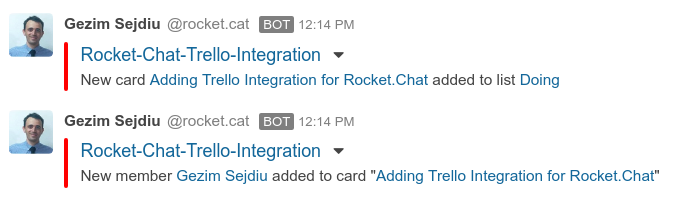
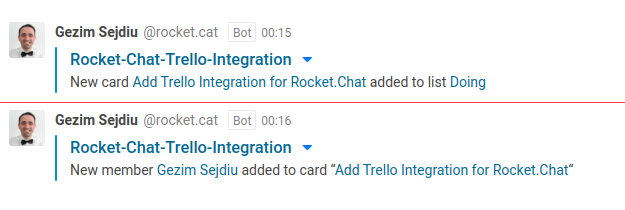
Update with the changes to the Trello API, closes #6, closes #7

Changed region(s): [[0.0, 0.4752, 1.0, 0.9208], [0.0, 0.0594, 0.8208, 0.4455]]

diff --git a/Trello.js b/Trello.js
@@ -39,7 +39,7 @@ class Script {
     var board_link = request.content.action.data.board.shortLink;
     var board_name = request.content.action.data.board.name;
 
-    var user_avatar = "https://trello-avatars.s3.amazonaws.com/"+request.content.action.memberCreator.avatarHash +"/170.png";
+    var user_avatar = request.content.action.memberCreator.avatarUrl +"/50.png";
 
     var message_text = author_name;
 
@@ -87,8 +87,6 @@ class Script {
     /** If a card is created */
     else if (request.content.action.type == "createCard") {
        var list_name = request.content.action.data.list.name;
-       //message_text += " added a new card to the list: " + request.content.model.name;
-      //message_text += ' added a new card "['+card_name+'](https://trello.com/c/'+card_link+')" to the list ['+list_name+'](https://trello.com/b/'+board_link+')';
        message_text = " New card ["+card_name+"](https://trello.com/c/"+card_link+") added to list ["+list_name+"](https://trello.com/b/"+board_link+")"
        url             = "https://trello.com/c/"+request.content.action.data.card.shortLink;
        title_text      = card_name;
@@ -97,19 +95,14 @@ class Script {
     else if (request.content.action.type == "deleteCard") {
       var list_name = request.content.action.data.list.name;
         message_text = "Card [#"+request.content.action.data.card.idShort+"](https://trello.com/c/"+card_link+") deleted from list ["+list_name+"](https://trello.com/b/"+board_link+")"
-        //message_text += " deleted a card";
         url             = "https://trello.com/c/"+request.content.action.data.card.shortLink;
         title_text      = "";
     }
     /** If a card is updated */
     else if (request.content.action.type == "updateCard") {
       var data = request.content.action.data;
-     //if data.get('listAfter') and data.get('listBefore'):
        if(data.listBefore){//moveCardToList
-         //var list_name = request.content.action.data.list.name;
-
         message_text = 'Card moved: "['+card_name+'](https://trello.com/c/'+card_link+')" from list "' + data.listBefore.name + "' to '" + data.listAfter.name + "'";
-         //request.content.action.data.listBefore.name + "' to '" + request.content.action.data.listAfter.name + "'";
        }
     else if(data.old.name){//renameCard
           var card_old_name = data.old.name;
@@ -123,7 +116,6 @@ class Script {
             card_desc ='from "' + old_desc + '" to "' + card_desc +'"';
           }
           message_text = 'Card updated: "['+card_name+'](https://trello.com/c/'+card_link+')"\n**Description**: '+ card_desc +'';
-         //message_text    = JSON.stringify(request.content.action.data) +'Card renamed from "'+card_old_name+'" to "['+card_name+'](https://trello.com/c/'+card_link+')"'
       }
     else if(data.card.due!=data.old.due){//updateCardDueDate
          var card_due = data.card.due;
@@ -189,19 +181,15 @@ class Script {
 
     if (url == undefined || message_text == author_name) return;
 
-    /** For debugging purpose. It displays the entire message contents sent by Trello */
-  //message_text = JSON.stringify(request.content);
+  /** For debugging purpose. It displays the entire message contents sent by Trello */
+  // message_text = JSON.stringify(request.content);
 
     return {
       content:{
         alias: author_name,
         icon_url:user_avatar,
-        //text: message_text,
          "attachments": [{
-           "color": "#FF0000",
-           //"author_name": request.content.action.memberCreator.avatarHash,
-           //"author_link": url,
-          // "author_icon": request.content.action.memberCreator.avatarHash,
+           "color": "#008FE4",
            "title": request.content.model.name,
            "title_link": request.content.model.shortUrl,
            "text": message_text +"\n" +attachment_text

diff --git a/README.md b/README.md
@@ -9,20 +9,27 @@
    1. Set **"Enabled"** to **"True"**
    1. Give a name for the webhook (i.e "sda.tech-trello")
    1. Select the channel where you will receive the alerts (ex: #sda.tech-events). You may wish to create a dedicated channel for your notifications.
-   1. Select an account from which the alerts will be posted (usually rocket.chat bot account is used).
+   1. Select an account from which the alerts will be posted (usually rocket.cat account is used).
    1. Set **"Script Enabled"** to **"True"**
    1. Paste [Trello.js](https://github.com/GezimSejdiu/Rocket.Chat-Trello-Integration/blob/master/Trello.js) inside the Script field.
    1. Save the integration. This will generate a webhook URL and secret for you.
    1. Use the generated **WebHook URL** to POST messages to Rocket.Chat
-1. Go to [Trello's REST API](https://developers.trello.com/v1.0/reference) and enter your [Trello API Key](https://trello.com/app-key) and your Token to get started.
-   1. After you have been connected to the Trello’s REST API you may wish to **[Get /boards/{id}](https://developers.trello.com/v1.0/reference#boardsboardid-1)** which request a single board you are looking for, by providing the **ID** of the board as a parameter (For example in the URL https://trello.com/b/Id0fth3B0rD/board-name, the ID would be `Id0fth3B0rD`). Press **Try it** to get the result.
+1. Go to [Trello's REST API](https://developer.atlassian.com/cloud/trello/rest/) and enter your [Trello API Key](https://trello.com/app-key) and your Token to get started.
+   1. After you have been connected to the Trello’s REST API you may wish to **[GET /1/boards/{id}](https://developer.atlassian.com/cloud/trello/rest/api-group-boards/#api-boards-id-get)** which request a single board you are looking for, by providing the **id** of the board as a parameter (For example in the URL https://trello.com/b/Id0fth3B0rD/board-name, the id would be `Id0fth3B0rD`). 
+   Run: 
+      ```sh
+      curl --request GET \
+        --url 'https://api.trello.com/1/boards/{id}?key={key}={token}' \
+        --header 'Accept: application/json'
+      ```
+   to get the result, where key/token are comming from the [Trello API Key](https://trello.com/app-key).
    1. Select `"id": "idModel"` of a board which you would like to create POST messages to Rocket.Chat.
-   1. Go to **[Create Webhook](https://developers.trello.com/v1.0/reference#webhooks-2)** in the Trello’s REST API and add your WebHook URL (**callbackURL**), Board Id (**idModel**) and other parameters as below:
-   ```javascript
-   description : ”Trello-YourChannel-Webhook”
-   callbackURL:  "WebHook URL"
-   idModel: "ID of the model to be monitored (which you obtained above)"
-   active: "true"
+   1. Go to **[Create a Webhook](https://developer.atlassian.com/cloud/trello/rest/api-group-webhooks/#api-webhooks-post)** in the Trello’s REST API and add your WebHook URL (**callbackURL**), Board Id (**idModel**) and other parameters as below:
+   ```sh
+      curl --request POST \
+        --url 'https://api.trello.com/1/webhooks/?key={key}&token={token}&callbackURL={callbackURL}&idModel={id}' \
+        --header 'Accept: application/json'
+
    ```
-   1. Press **Try it** to make it works.
+   1. **Execute it** to make it works.
 1. The integration is ready to generate notifications for the given board :) Enjoy it!
